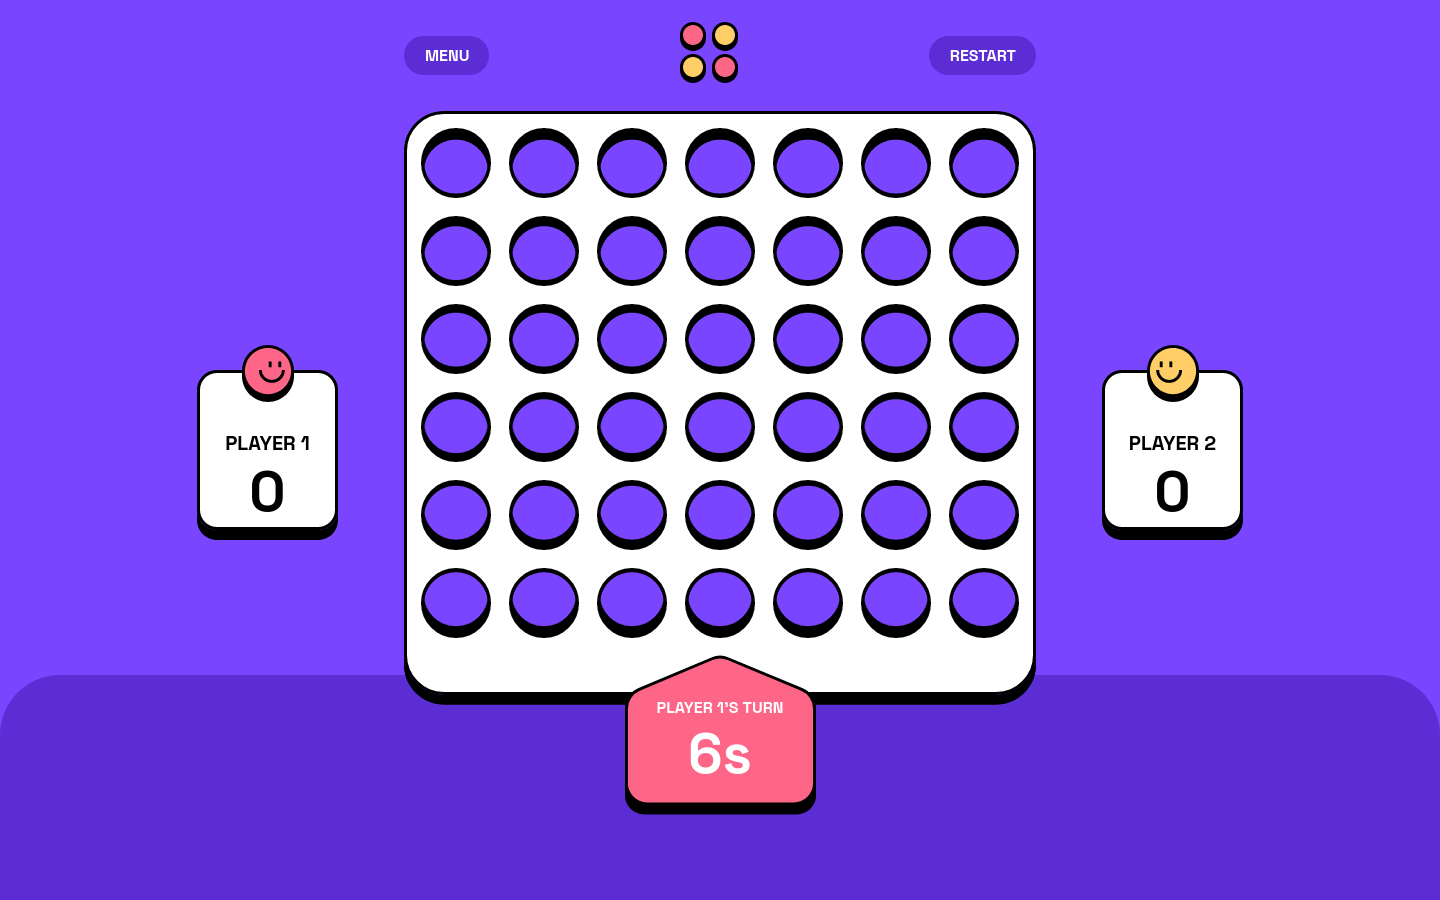
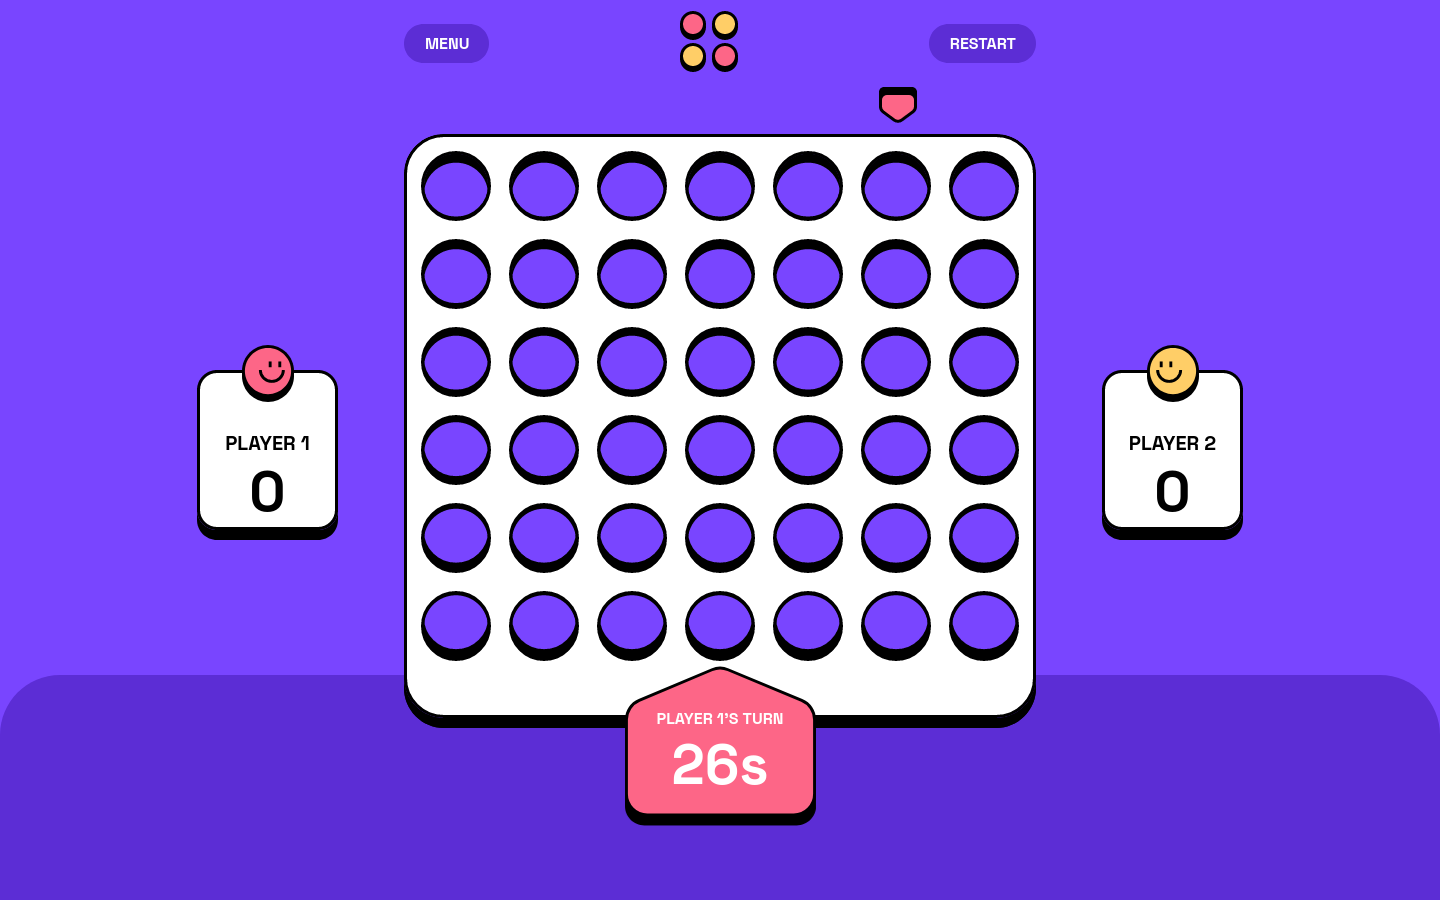
correcting the screenshot links + adding the col indicator

Changed region(s): [[0.2812, 0.0, 0.7188, 0.9333], [0.4688, 0.0, 0.5312, 0.0933], [0.2812, 0.0, 0.3438, 0.0933]]

diff --git a/main-page.html b/main-page.html
@@ -16,10 +16,12 @@
 
 <body>
   <div id="pause-page">
-    <div onclick="document.getElementById('pause-page').style.zIndex = '-99'; startTimer(timer);" class="pause-bg"></div>
+    <div onclick="document.getElementById('pause-page').style.zIndex = '-99'; startTimer(timer);" class="pause-bg">
+    </div>
     <div class="pause-container">
       <h1 class="heading-l">pause</h1>
-      <div onclick="document.getElementById('pause-page').style.zIndex = '-99'; startTimer(timer);" class="btn-large continue-game">continue
+      <div onclick="document.getElementById('pause-page').style.zIndex = '-99'; startTimer(timer);"
+        class="btn-large continue-game">continue
       </div>
       <div id="restart" class="btn-large continue-game"
         onclick="restart();document.getElementById('pause-page').style.zIndex = '-99';">restart</div>
@@ -28,7 +30,8 @@
   </div>
   <div id="main-page">
     <div class="main-page-header">
-      <div onclick="document.getElementById('pause-page').style.zIndex = '99'; clearInterval(timerID);" class="menu-btn">
+      <div onclick="document.getElementById('pause-page').style.zIndex = '99'; clearInterval(timerID);"
+        class="menu-btn">
         <p>menu</p>
       </div>
       <div>
@@ -50,6 +53,9 @@
         <p id="score-yellow">0</p>
       </div>
     </div>
+    <div class="marker">
+      <div class="marker-red" id="marker"></div>
+    </div>
     <div class="board-container">
       <div id="playing-preventer"></div>
       <div class="black-board">
@@ -69,9 +75,6 @@
         <div id="white-col4"></div>
         <div id="white-col5"></div>
         <div id="white-col6"></div>
-        <div id="marker">
-          <img src="./images/marker-red.svg" alt="marker" />
-        </div>
       </div>
     </div>
     <div id="turn">

diff --git a/main.js b/main.js
@@ -56,6 +56,7 @@ const drawWins = document.getElementById("wins-draw");
 const turnBg = document.getElementById("turn-bg");
 const turn = document.getElementById("turn");
 turn.classList.add(player === 1 ? "turn-red" : "turn-yellow");
+const marker = document.getElementById("marker");
 
 const whiteCol0 = document.getElementById("white-col0");
 const whiteCol1 = document.getElementById("white-col1");
@@ -124,6 +125,8 @@ function togglePlayer() {
   }
   turn.classList.toggle("turn-red");
   turn.classList.toggle("turn-yellow");
+  marker.classList.toggle("marker-red");
+  marker.classList.toggle("marker-yellow");
   timer = 30;
   time.innerHTML = 30;
 }
@@ -812,4 +815,32 @@ whiteCol6.addEventListener("click", () => {
       break;
     }
   }
+});
+
+whiteCol0.addEventListener("mouseover", () => {
+  marker.style.left = "35px";
+});
+
+whiteCol1.addEventListener("mouseover", () => {
+  marker.style.left = "125px";
+});
+
+whiteCol2.addEventListener("mouseover", () => {
+  marker.style.left = "210px";
+});
+
+whiteCol3.addEventListener("mouseover", () => {
+  marker.style.left = "300px";
+});
+
+whiteCol4.addEventListener("mouseover", () => {
+  marker.style.left = "385px";
+});
+
+whiteCol5.addEventListener("mouseover", () => {
+  marker.style.left = "475px";
+});
+
+whiteCol6.addEventListener("mouseover", () => {
+  marker.style.left = "560px";
 });

diff --git a/style.css b/style.css
@@ -374,14 +374,6 @@ body {
     text-transform: none;
 }
 
-#marker {
-    position: absolute;
-    top: -38px;
-    left: 8px;
-    transition: .5s;
-    display: none;
-}
-
 .ball {
     width: 41px;
     height: 46px;
@@ -609,6 +601,34 @@ body {
         gap: 18px;
     }
 
+    .marker {
+        width: 632px;
+        height: 36px;
+        transition: 400ms;
+        position: relative;
+        top: calc((+100% - 900px)/4 );
+        display: none;
+    }
+
+    #marker {
+        width: 38px;
+        height: 36px;
+        position: absolute;
+        left: 0;
+        transition: 400ms;
+        background-size: contain;
+        background-position: center;
+        background-repeat: no-repeat;
+    }
+    
+    .marker-red {
+        background-image: url(./images/marker-red.svg);
+    }
+
+    .marker-yellow {
+        background-image: url(./images/marker-yellow.svg);
+    }
+
     .ball {
         width: 70px;
         height: 75px;
@@ -767,11 +787,15 @@ body {
 
 @media (min-width: 1050px) {
     body {
-        min-height: 890px;
+        min-height: 900px;
     }
 
     #pause-page {
         min-height: 890px;
+    }
+
+    .marker {
+        display: inline;
     }
 
     .score-container {

diff --git a/README.md b/README.md
@@ -41,14 +41,13 @@ Users should be able to:
 
 ### Links
 
-- Solution URL: [solution URL](https://your-solution-url.com)
-- Live Site URL: [live site URL](https://your-live-site-url.com)
+- Solution URL: [solution URL](https://www.frontendmentor.io/solutions/connectfourgame-using-just-html-css-and-js-Oy1v0UD84w)
+- Live Site URL: [live site URL](https://yassine-ramla.github.io/Connect-Four-game/)
 
 ## My process
 
 ### Built with
 
-- Semantic HTML5 markup
 - Flexbox
 - CSS Grid
 - Mobile-first workflow
